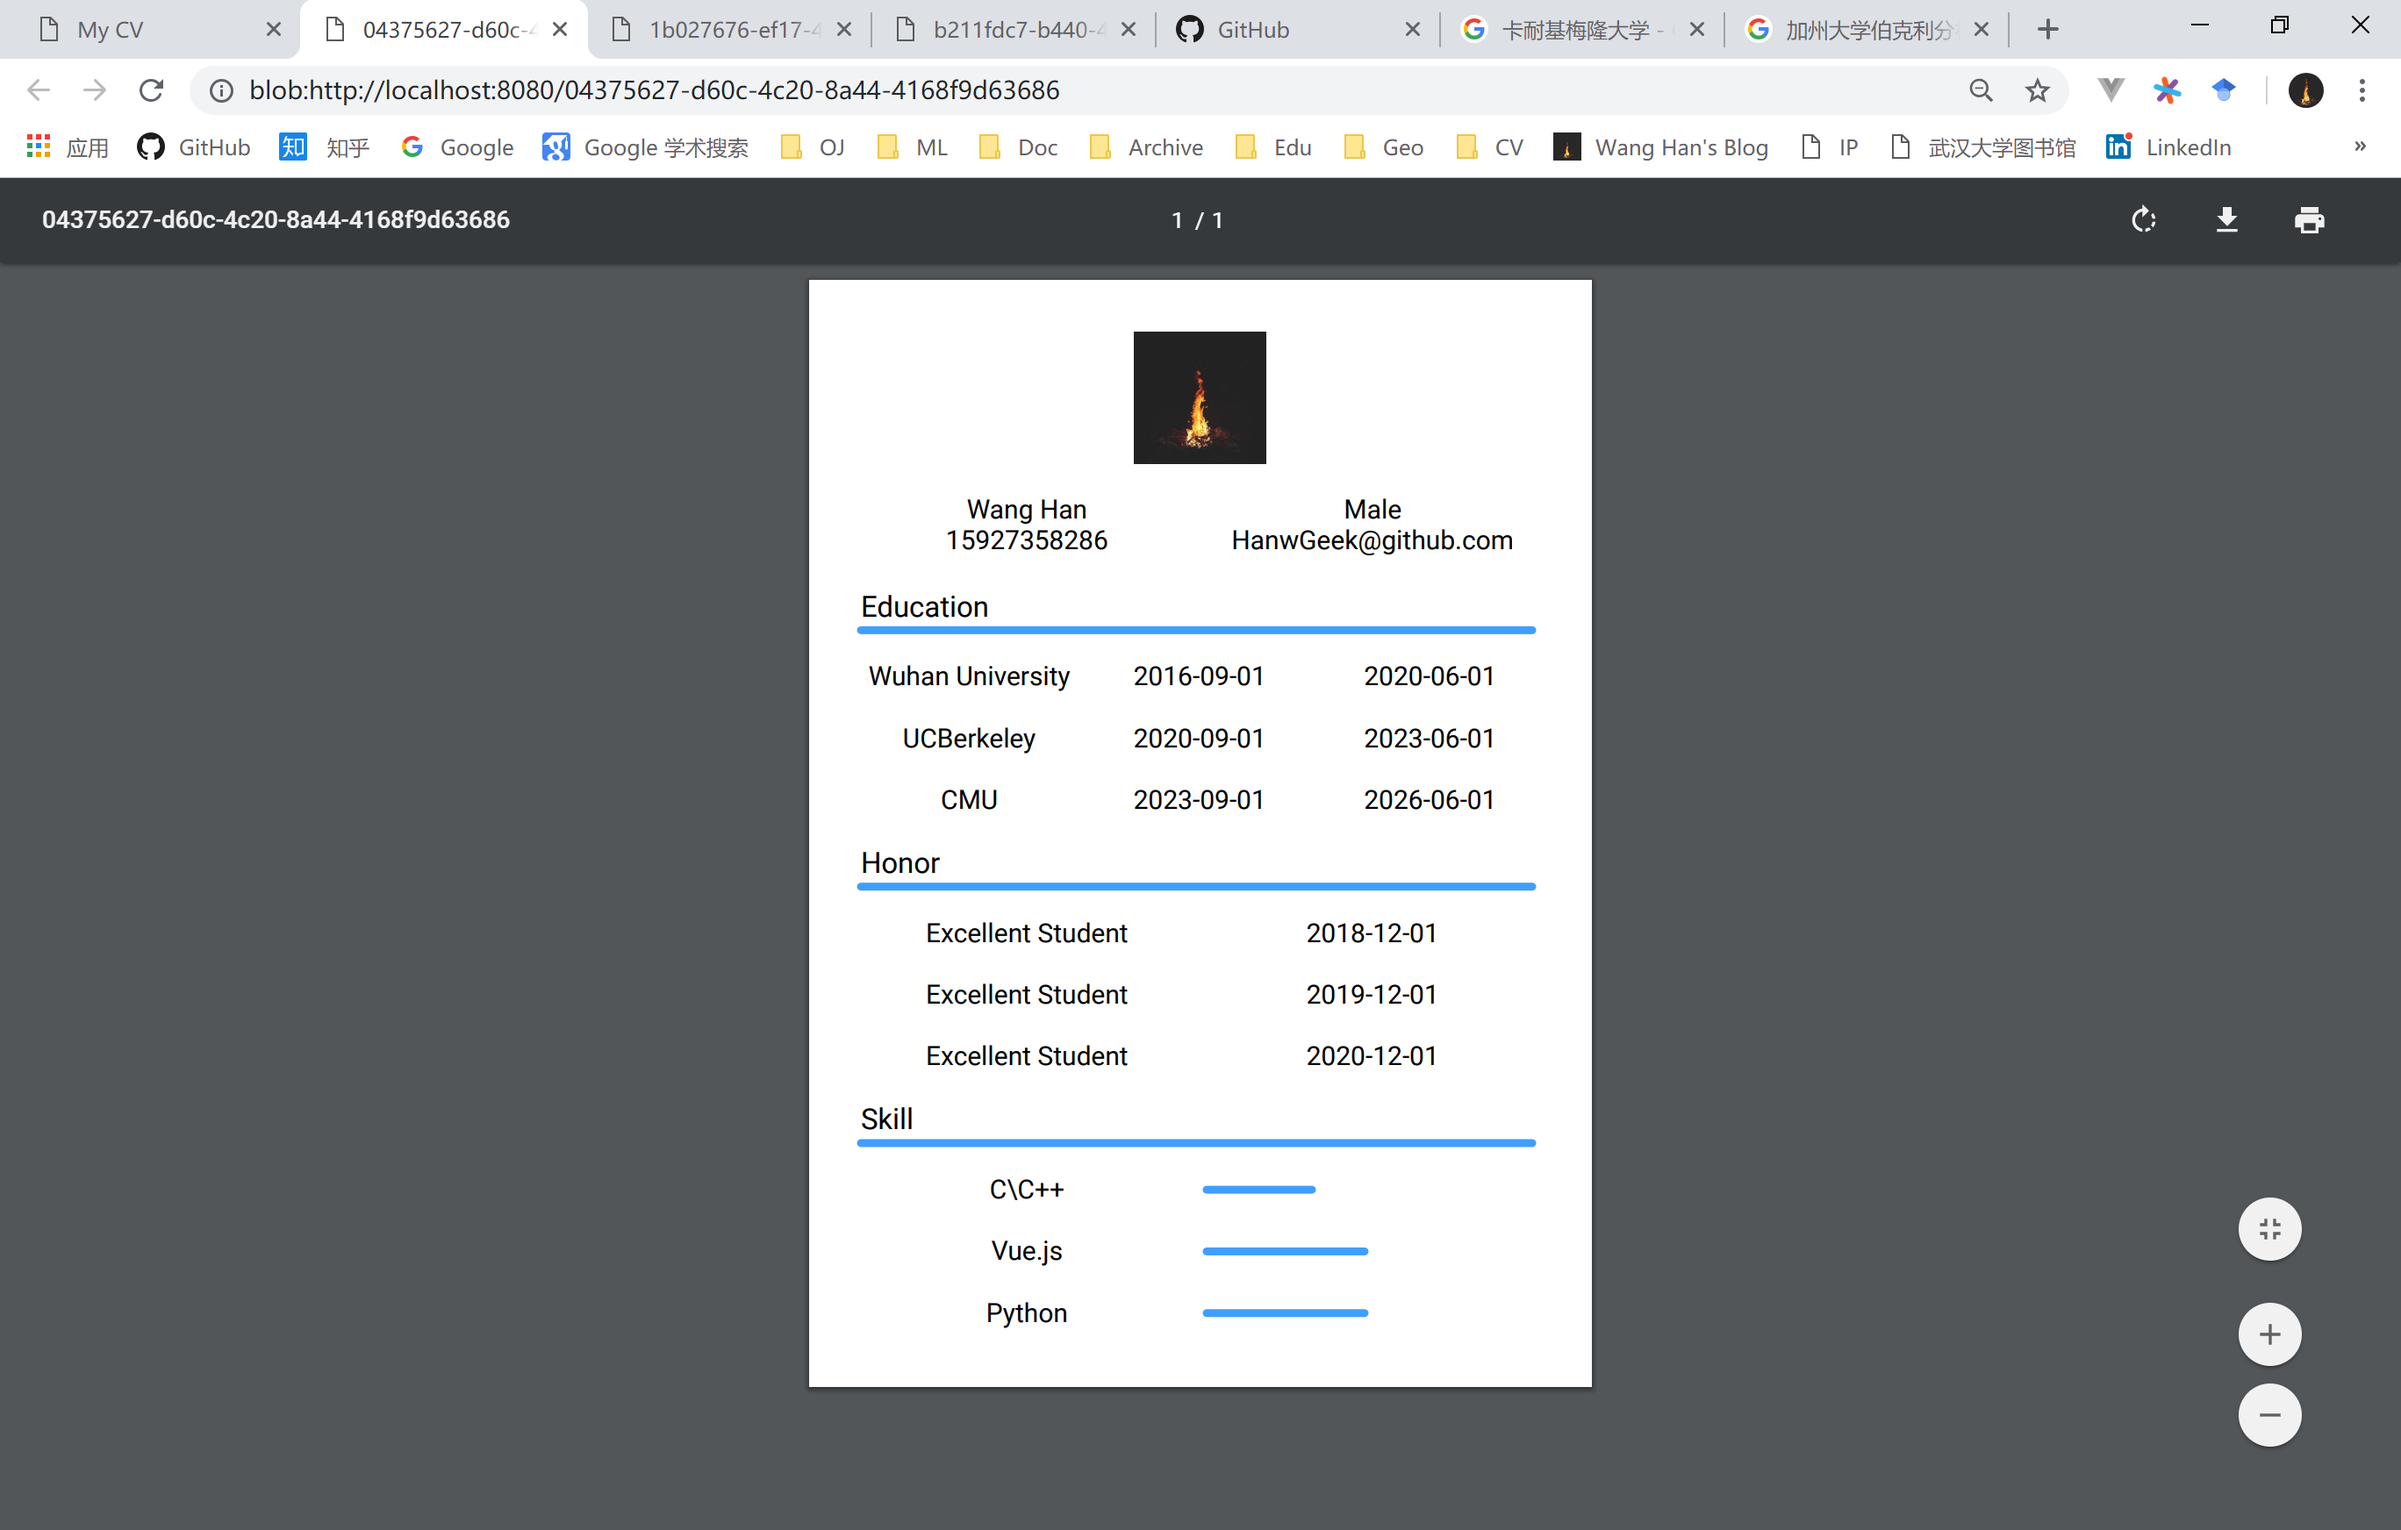
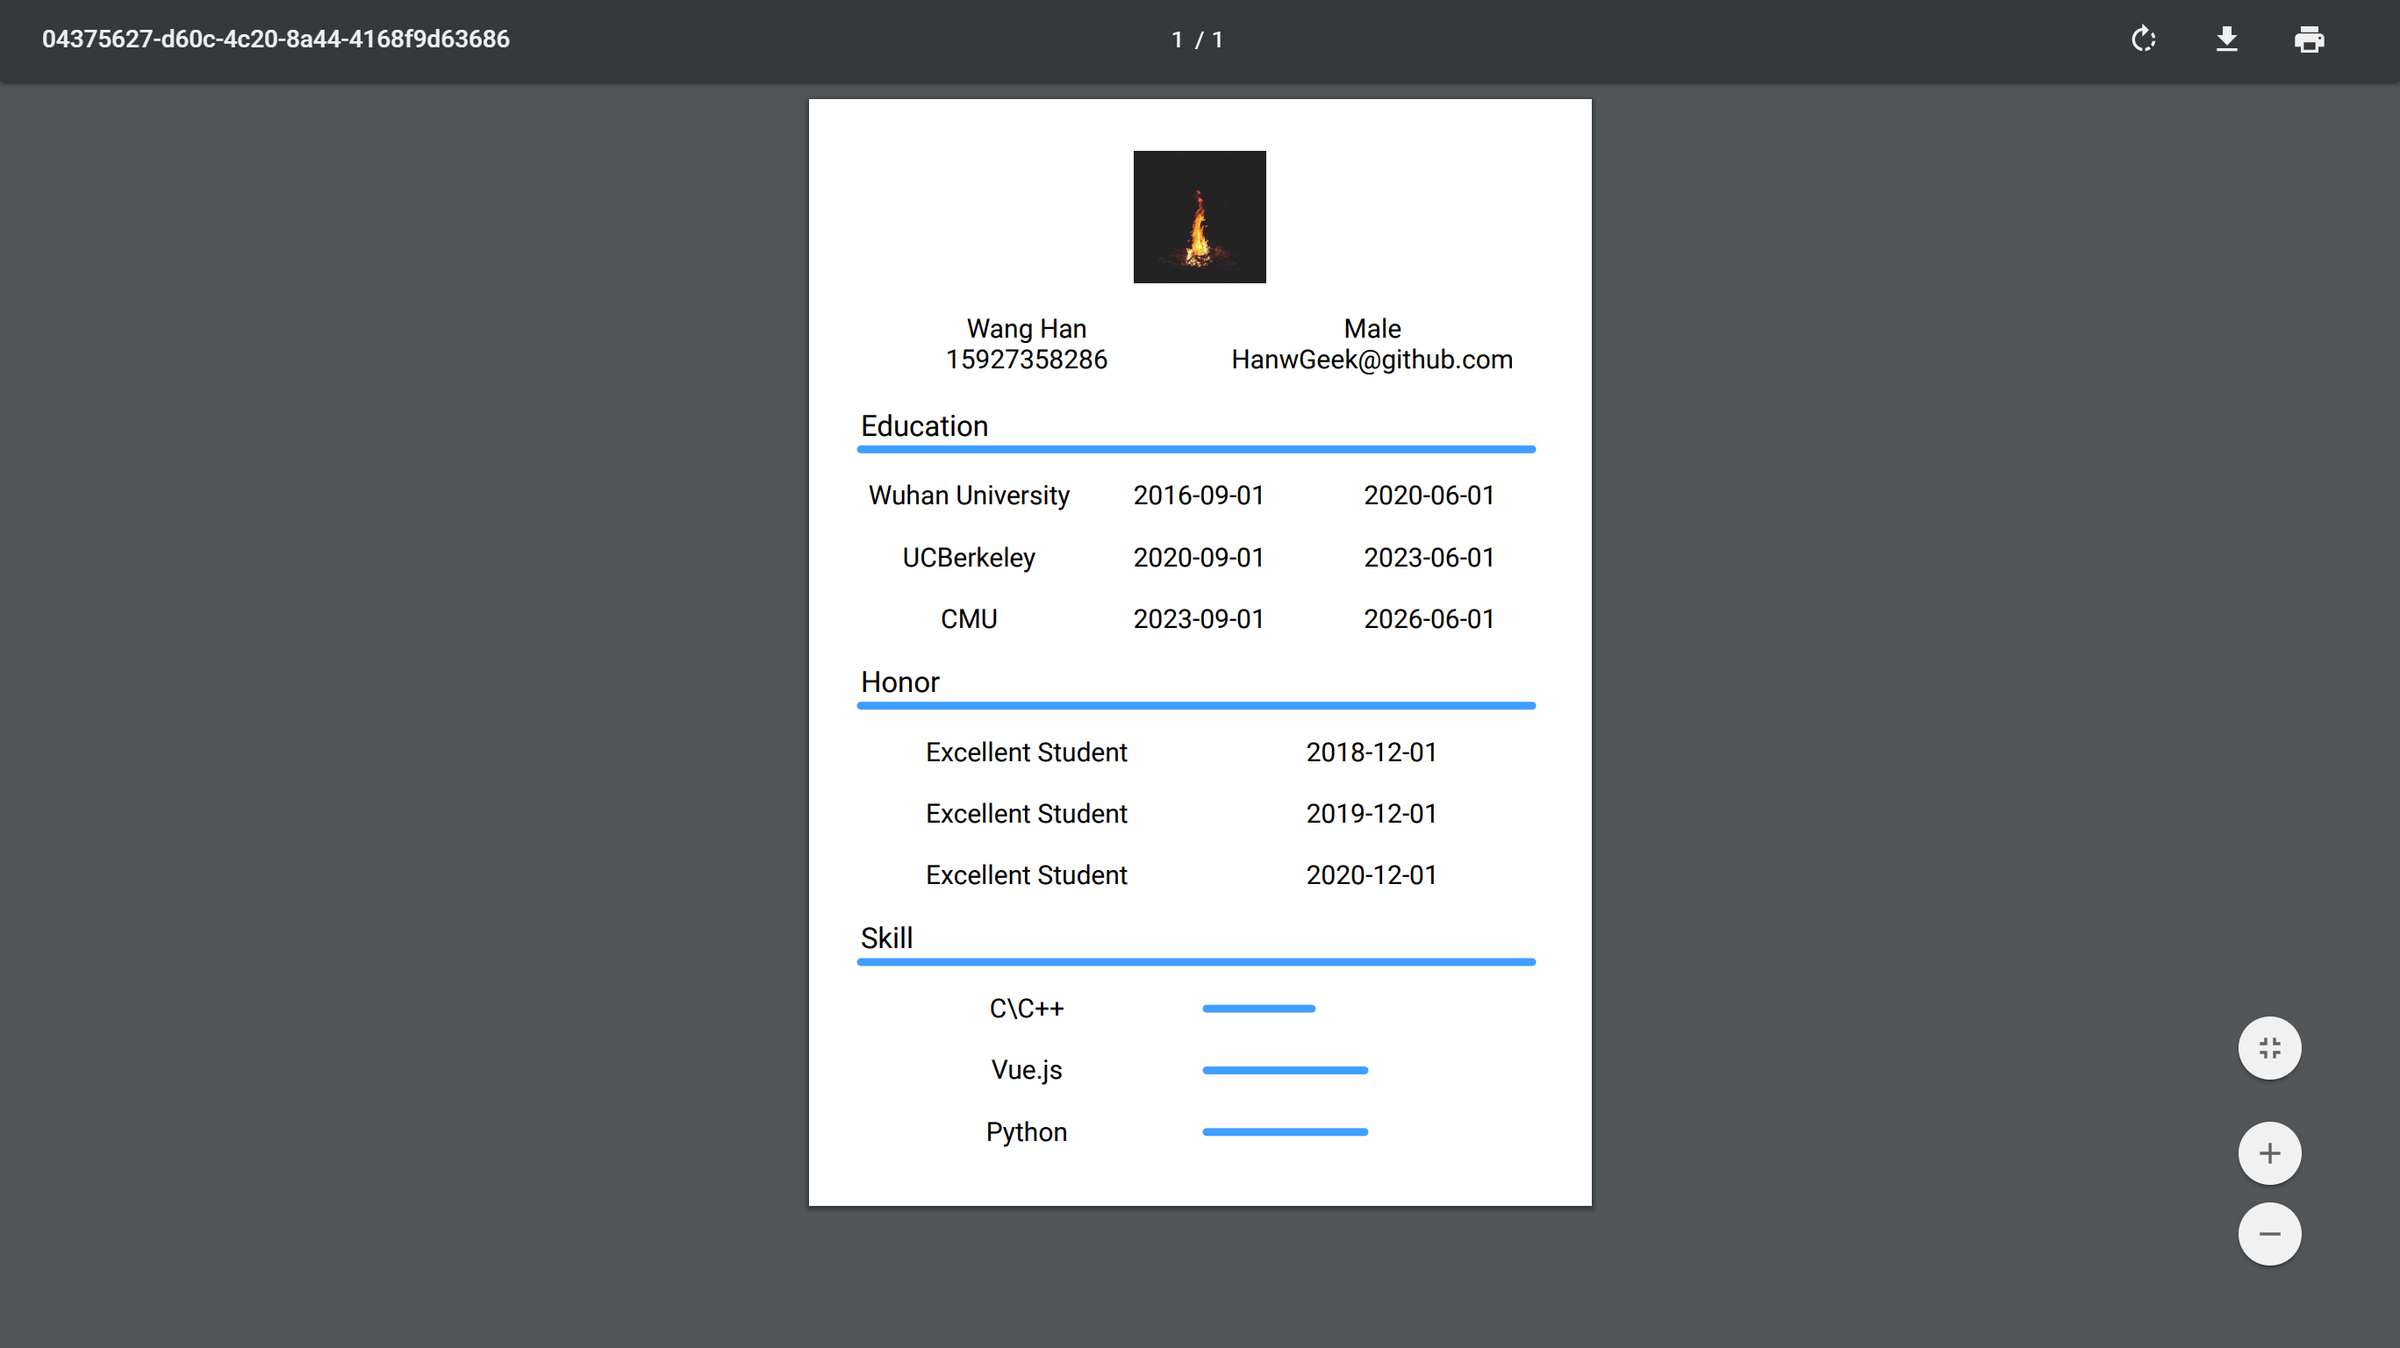
update img & readme

Changed region(s): [[0.0, 0.0, 1.0, 0.6558], [0.3419, 0.6871, 0.6837, 0.9057], [0.9324, 0.7495, 0.9634, 0.9681]]

diff --git a/README.md b/README.md
@@ -19,5 +19,8 @@ npm run build
 
 前端采用Vue.js + Element UI + pdfmake组件编写。由于pdfmake字体库原因，暂不支持中文PDF渲染。
 
-### 网页访问初始界面
+1. 网页访问初始界面
 
+![start.png](https://github.com/HanwGeek/my-cv-generator/blob/master/img/start.png?raw=true)
+
+2. 用户注册，将数据提交到服务器数据库中。
